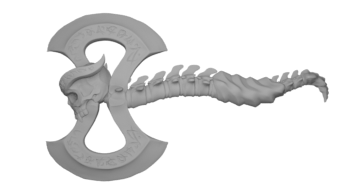
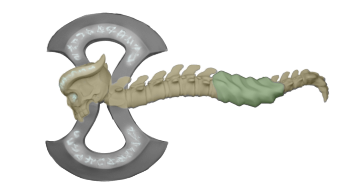
Made credits text black and updated with new axe texture

Changed region(s): [[0.125, 0.0625, 0.9375, 0.9688]]

diff --git a/source/UI/UI.cpp b/source/UI/UI.cpp
@@ -37,7 +37,7 @@ void UI::Setup()
 	hr = m_Factory->CreateDxgiSurfaceRenderTarget(UISurface, properties, &m_RenderTarget);
 	assert(!FAILED(hr));
 
-	hr = m_RenderTarget->CreateSolidColorBrush(D2D1::ColorF(255.0f, 255.0f, 255.0f), &m_Brush);
+	hr = m_RenderTarget->CreateSolidColorBrush(D2D1::ColorF(1.0f, 1.0f, 1.0f), &m_Brush);
 	assert(!FAILED(hr));
 	
 	hr = m_RenderTarget->CreateSolidColorBrush(D2D1::ColorF(1.0f, 1.0f, 0.225f), &m_YellowBrush);
@@ -46,6 +46,10 @@ void UI::Setup()
 	//hr = m_RenderTarget->CreateSolidColorBrush(D2D1::ColorF(1.0f, 0.894f, 0.882f), &m_MistyRoseBrush);
 	hr = m_RenderTarget->CreateSolidColorBrush(D2D1::ColorF(0.69f, 0.769f, 0.869f), &m_LightSteelBlue);
 	assert(!FAILED(hr));
+
+	hr = m_RenderTarget->CreateSolidColorBrush(D2D1::ColorF(0.0f, 0.0f, 0.0f), &m_BlackBrush);
+	assert(!FAILED(hr));
+
 
 	hr = CoCreateInstance(CLSID_WICImagingFactory, NULL, CLSCTX_INPROC_SERVER, IID_IWICImagingFactory, (LPVOID*)&m_ImagingFactory);
 	assert(!FAILED(hr));
@@ -59,6 +63,7 @@ void UI::Release()
 	m_Brush->Release();
 	m_LightSteelBlue->Release();
 	m_YellowBrush->Release();
+	m_BlackBrush->Release();
 	m_Factory->Release();
 }
 
@@ -122,6 +127,8 @@ ID2D1SolidColorBrush*& UI::GetBrush(BrushColor brush)
 		return m_YellowBrush;
 	case LightSteelBlue:
 		return m_LightSteelBlue;
+	case Black:
+		return m_BlackBrush;
 	}
 	return m_Brush;
 }

diff --git a/header/UI/UI.h b/header/UI/UI.h
@@ -11,7 +11,8 @@ enum BrushColor
 {
 	White,	//This is not black
 	Yellow, //Color Kinda Yellow IDK, maybe
-	LightSteelBlue //Color: hot but not heavy; metallic. 69. Last letter in RGB-ish
+	LightSteelBlue, //Color: hot but not heavy; metallic. 69. Last letter in RGB-ish
+	Black //And Yellow
 };
 
 struct UI
@@ -23,6 +24,7 @@ struct UI
 	ID2D1SolidColorBrush* m_Brush = nullptr;			//Paints an area with a solid color.
 	ID2D1SolidColorBrush* m_YellowBrush = nullptr;			//Elliot: Yellow Brush
 	ID2D1SolidColorBrush* m_LightSteelBlue = nullptr;			//Elliot: Not that heavy; metallic. 69. Last letter in RGB-ish
+	ID2D1SolidColorBrush* m_BlackBrush = nullptr;			//Christian: Black Brush
 	int RenderSlot = -1;
 
 	void BeginFrame();

diff --git a/source/States/Credits.cpp b/source/States/Credits.cpp
@@ -90,8 +90,12 @@ void Credits::SetupUI()
 		uiElementC->AddText(names[stateManager.creditsIndex][i].c_str(), DSBOUNDS(0, 0, uiElementC->m_BaseImage.baseUI.GetBounds().right / 3.0f, uiElementC->m_BaseImage.baseUI.GetBounds().bottom),
 			DSFLOAT2(-0.4 * reverse, 0.3), DSFLOAT2(1.0f, 1.0f), 40.0f);
 
+		uiElementC->m_Texts[i + i].m_brush = Black;
+
 		uiElementC->AddText(desc.c_str(), DSBOUNDS(0, 0, uiElementC->m_BaseImage.baseUI.GetBounds().right / 3.0f, uiElementC->m_BaseImage.baseUI.GetBounds().bottom),
 			DSFLOAT2(-0.4 * reverse, 0.0), DSFLOAT2(1.0, 1.0), 20.0f, DWRITE_TEXT_ALIGNMENT_LEADING);
+
+		uiElementC->m_Texts[i + i + 1].m_brush = Black;
 
 		reverse = -1;
 	}

diff --git a/source/UI/UIButtonFunctions.cpp b/source/UI/UIButtonFunctions.cpp
@@ -249,8 +249,6 @@ void UIFunctions::Game::SetPause(void* args, int a)
 
 void UIFunctions::Settings::Back(void* args, int a)
 {
-	//Please check this function cause the Setup sets in main menu to true already.
-	//SetInMainMenu(true);
 	stateManager.settings.Unload();
 	stateManager.menu.Setup();
 	SetInSettings(false);
